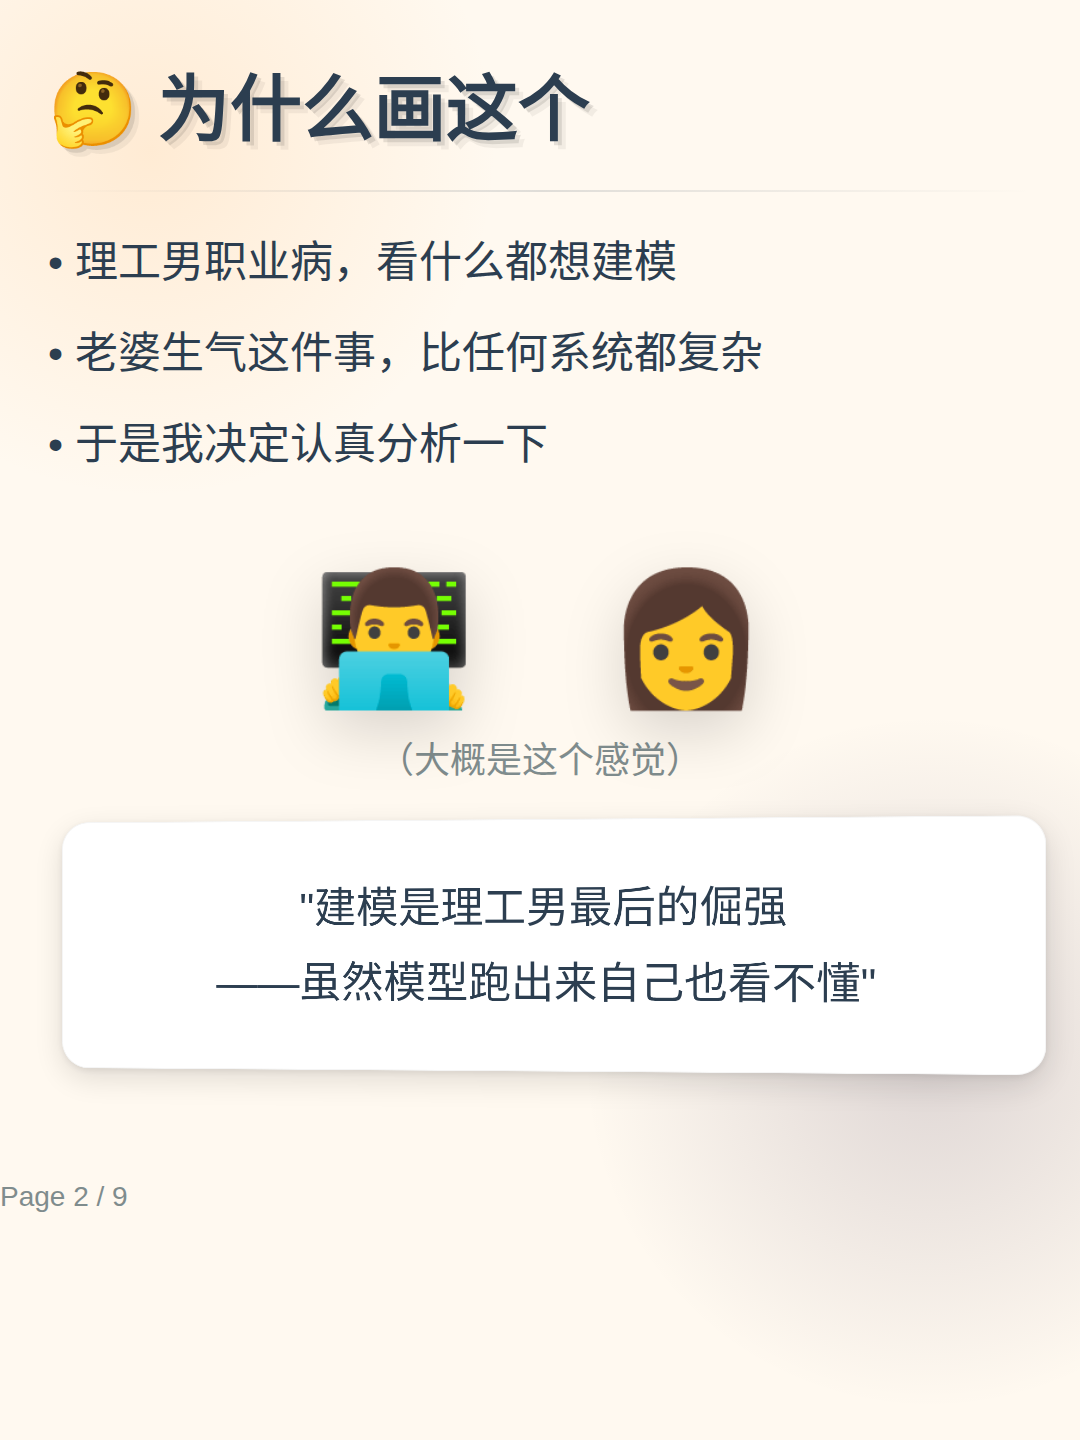
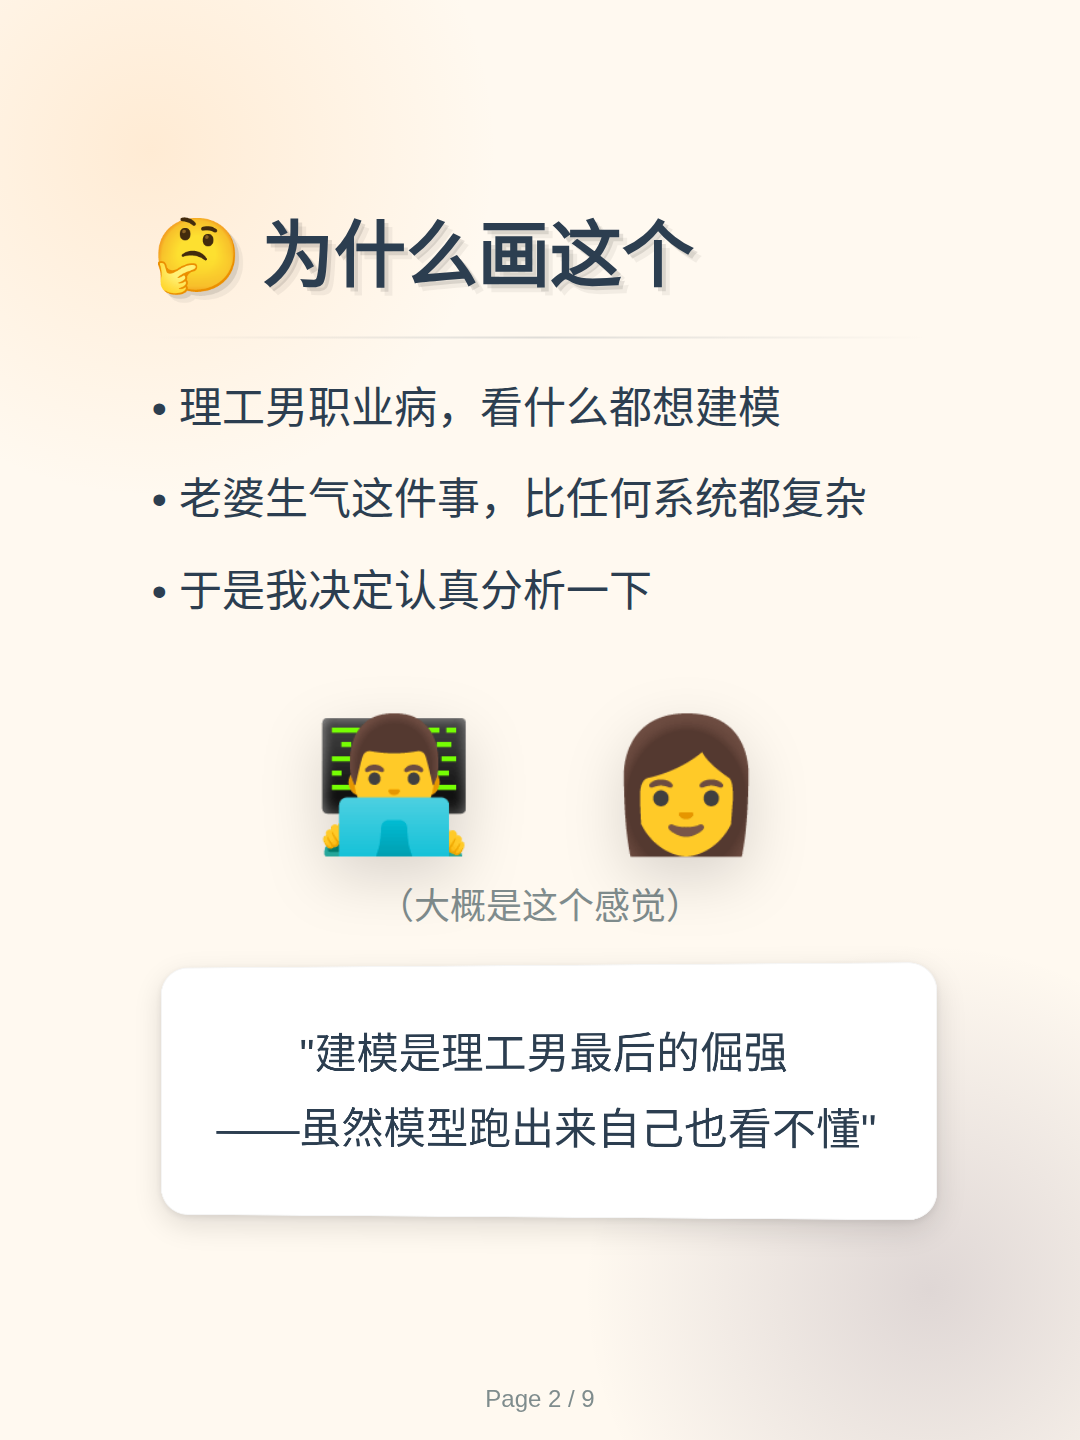
fix: Page标记居中+内容垂直均布+状态图放大

diff --git a/wife-anger-cycle-3d/slide-03-3d.html b/wife-anger-cycle-3d/slide-03-3d.html
@@ -1,6 +1,6 @@
 <!DOCTYPE html><html><head><meta charset="utf-8"><style>
 *{margin:0;padding:0;box-sizing:border-box}
-body{width:1080px;background:#FFF9F0;font-family:'PingFang SC','Microsoft YaHei',sans-serif;color:#2C3E50;overflow:hidden;position:relative}
+body{display:flex;flex-direction:column;align-items:center;min-height:1440px;justify-content:center;height:1440px;justify-content:center;width:1080px;background:#FFF9F0;font-family:'PingFang SC','Microsoft YaHei',sans-serif;color:#2C3E50;overflow:hidden;position:relative}
 /* Strong ambient light */
 body::before{content:'';position:absolute;top:0;left:0;right:0;bottom:0;background:radial-gradient(ellipse at 50% 30%,rgba(255,255,255,.4) 0%,transparent 60%);pointer-events:none;z-index:0}
 /* Perspective grid at bottom */
@@ -18,7 +18,7 @@ h2{font-size:60px;font-weight:900;text-shadow:4px 4px 0 rgba(0,0,0,.1),8px 8px 0
 .txt{font-size:32px;line-height:1.55}
 .sm{font-size:26px;color:#7F8C8D}
 svg text{font-family:'PingFang SC','Microsoft YaHei',sans-serif}
-.foot{position:static;padding-top:28px;font-size:24px;color:#7F8C8D}
+.foot{position:fixed;bottom:28px;left:0;right:0;text-align:center;font-size:24px;color:#7F8C8D;z-index:10}
 
 /* STRONG 3D perspective for diagram */
 .diagram-stage{perspective:800px;text-align:center;margin:10px 0}
@@ -33,7 +33,7 @@ svg text{font-family:'PingFang SC','Microsoft YaHei',sans-serif}
   <div style="height:2px;background:linear-gradient(90deg,transparent,#2C3E50,transparent);opacity:.15;margin:8px 0 10px"></div>
   <div class="diagram-stage">
     <div class="diagram-plane">
-      <svg viewBox="0 0 952 720" width="900" height="460" xmlns="http://www.w3.org/2000/svg">
+      <svg viewBox="0 0 952 720" width="980" height="560" xmlns="http://www.w3.org/2000/svg">
         <defs>
           <marker id="ag" viewBox="0 0 10 10" refX="9" refY="5" markerWidth="6" markerHeight="6" orient="auto"><path d="M0 0L10 5L0 10z" fill="#4CAF50" opacity=".7"/></marker>
           <marker id="ay" viewBox="0 0 10 10" refX="9" refY="5" markerWidth="6" markerHeight="6" orient="auto"><path d="M0 0L10 5L0 10z" fill="#E6A800" opacity=".7"/></marker>
@@ -57,86 +57,86 @@ svg text{font-family:'PingFang SC','Microsoft YaHei',sans-serif}
 
         <!-- 平静态 (top) -->
         <g filter="url(#recoveryGlow)">
-          <rect x="380" y="20" width="200" height="70" rx="14" fill="#4CAF50" fill-opacity=".12" stroke="#4CAF50" stroke-width="2.5" stroke-dasharray="6,3"/>
+          <rect x="360" y="10" width="230" height="85" rx="16" fill="#4CAF50" fill-opacity=".12" stroke="#4CAF50" stroke-width="2.5" stroke-dasharray="6,3"/>
         </g>
-        <text x="480" y="50" text-anchor="middle" font-size="37" font-weight="bold" fill="#4CAF50">😌 平静态</text>
-        <text x="480" y="74" text-anchor="middle" font-size="23" fill="#7F8C8D">Normal</text>
+        <text x="480" y="50" text-anchor="middle" font-size="42" font-weight="bold" fill="#4CAF50">😌 平静态</text>
+        <text x="480" y="74" text-anchor="middle" font-size="26" fill="#7F8C8D">Normal</text>
 
         <!-- 酝酿态 -->
         <g filter="url(#nodeShadow)">
-          <rect x="40" y="240" width="210" height="70" rx="14" fill="#FFC107" fill-opacity=".12" stroke="#FFC107" stroke-width="2.5" stroke-dasharray="6,3"/>
+          <rect x="30" y="225" width="230" height="85" rx="16" fill="#FFC107" fill-opacity=".12" stroke="#FFC107" stroke-width="2.5" stroke-dasharray="6,3"/>
         </g>
-        <text x="145" y="270" text-anchor="middle" font-size="37" font-weight="bold" fill="#E6A800">🤔 酝酿态</text>
-        <text x="145" y="294" text-anchor="middle" font-size="23" fill="#7F8C8D">Warning</text>
+        <text x="145" y="270" text-anchor="middle" font-size="42" font-weight="bold" fill="#E6A800">🤔 酝酿态</text>
+        <text x="145" y="294" text-anchor="middle" font-size="26" fill="#7F8C8D">Warning</text>
 
         <!-- 爆发态 - STRONG red glow -->
         <g filter="url(#criticalGlow)">
-          <rect x="370" y="230" width="230" height="90" rx="16" fill="#F44336" fill-opacity=".15" stroke="#F44336" stroke-width="3"/>
+          <rect x="355" y="215" width="250" height="100" rx="18" fill="#F44336" fill-opacity=".15" stroke="#F44336" stroke-width="3"/>
         </g>
-        <text x="485" y="272" text-anchor="middle" font-size="39" font-weight="bold" fill="#F44336">💢 爆发态</text>
-        <text x="485" y="298" text-anchor="middle" font-size="23" fill="#7F8C8D">Critical</text>
+        <text x="485" y="272" text-anchor="middle" font-size="44" font-weight="bold" fill="#F44336">💢 爆发态</text>
+        <text x="485" y="298" text-anchor="middle" font-size="26" fill="#7F8C8D">Critical</text>
 
         <!-- 冷冻态 -->
         <g filter="url(#nodeShadow)">
-          <rect x="710" y="240" width="200" height="70" rx="14" fill="#2196F3" fill-opacity=".12" stroke="#2196F3" stroke-width="2.5" stroke-dasharray="6,3"/>
+          <rect x="700" y="225" width="220" height="85" rx="16" fill="#2196F3" fill-opacity=".12" stroke="#2196F3" stroke-width="2.5" stroke-dasharray="6,3"/>
         </g>
-        <text x="810" y="270" text-anchor="middle" font-size="37" font-weight="bold" fill="#2196F3">🧊 冷冻态</text>
-        <text x="810" y="294" text-anchor="middle" font-size="23" fill="#7F8C8D">Frozen</text>
+        <text x="810" y="270" text-anchor="middle" font-size="42" font-weight="bold" fill="#2196F3">🧊 冷冻态</text>
+        <text x="810" y="294" text-anchor="middle" font-size="26" fill="#7F8C8D">Frozen</text>
 
         <!-- 阴天态 -->
         <g filter="url(#nodeShadow)">
-          <rect x="40" y="480" width="210" height="70" rx="14" fill="#9C27B0" fill-opacity=".12" stroke="#9C27B0" stroke-width="2.5" stroke-dasharray="6,3"/>
+          <rect x="30" y="475" width="230" height="85" rx="16" fill="#9C27B0" fill-opacity=".12" stroke="#9C27B0" stroke-width="2.5" stroke-dasharray="6,3"/>
         </g>
-        <text x="145" y="510" text-anchor="middle" font-size="37" font-weight="bold" fill="#9C27B0">🌧 阴天态</text>
-        <text x="145" y="534" text-anchor="middle" font-size="23" fill="#7F8C8D">Unstable</text>
+        <text x="145" y="510" text-anchor="middle" font-size="42" font-weight="bold" fill="#9C27B0">🌧 阴天态</text>
+        <text x="145" y="534" text-anchor="middle" font-size="26" fill="#7F8C8D">Unstable</text>
 
         <!-- 平静态恢复 -->
         <g filter="url(#recoveryGlow)">
-          <rect x="710" y="480" width="200" height="70" rx="14" fill="#4CAF50" fill-opacity=".12" stroke="#4CAF50" stroke-width="2.5" stroke-dasharray="6,3"/>
+          <rect x="695" y="475" width="220" height="85" rx="16" fill="#4CAF50" fill-opacity=".12" stroke="#4CAF50" stroke-width="2.5" stroke-dasharray="6,3"/>
         </g>
-        <text x="810" y="510" text-anchor="middle" font-size="37" font-weight="bold" fill="#4CAF50">😌 平静态</text>
-        <text x="810" y="534" text-anchor="middle" font-size="23" fill="#7F8C8D">Normal（恢复）</text>
+        <text x="810" y="510" text-anchor="middle" font-size="42" font-weight="bold" fill="#4CAF50">😌 平静态</text>
+        <text x="810" y="534" text-anchor="middle" font-size="26" fill="#7F8C8D">Normal（恢复）</text>
 
         <!-- Arrows -->
         <line x1="415" y1="90" x2="230" y2="240" stroke="#FFC107" stroke-width="2" marker-end="url(#ay)" opacity=".6"/>
         <rect x="265" y="142" width="90" height="22" rx="4" fill="white" fill-opacity=".92"/>
-        <text x="310" y="158" text-anchor="middle" font-size="21" font-weight="bold" fill="#E6A800">❶ 忽视预警</text>
+        <text x="310" y="158" text-anchor="middle" font-size="24" font-weight="bold" fill="#E6A800">❶ 忽视预警</text>
 
         <line x1="545" y1="90" x2="220" y2="245" stroke="#FFC107" stroke-width="2" marker-end="url(#ay)" opacity=".4" stroke-dasharray="5,3"/>
         <rect x="345" y="132" width="90" height="22" rx="4" fill="white" fill-opacity=".92"/>
-        <text x="390" y="148" text-anchor="middle" font-size="21" font-weight="bold" fill="#E6A800">❷ "你随意吧"</text>
+        <text x="390" y="148" text-anchor="middle" font-size="24" font-weight="bold" fill="#E6A800">❷ "你随意吧"</text>
 
         <line x1="250" y1="275" x2="370" y2="275" stroke="#F44336" stroke-width="2" marker-end="url(#ar)" opacity=".6"/>
         <rect x="275" y="253" width="90" height="22" rx="4" fill="white" fill-opacity=".92"/>
-        <text x="320" y="269" text-anchor="middle" font-size="21" font-weight="bold" fill="#F44336">❸ 继续忽视</text>
+        <text x="320" y="269" text-anchor="middle" font-size="24" font-weight="bold" fill="#F44336">❸ 继续忽视</text>
 
         <line x1="600" y1="275" x2="710" y2="275" stroke="#2196F3" stroke-width="2" marker-end="url(#ab)" opacity=".6"/>
         <rect x="610" y="253" width="90" height="22" rx="4" fill="white" fill-opacity=".92"/>
-        <text x="655" y="269" text-anchor="middle" font-size="21" font-weight="bold" fill="#2196F3">❹ 无人劝阻</text>
+        <text x="655" y="269" text-anchor="middle" font-size="24" font-weight="bold" fill="#2196F3">❹ 无人劝阻</text>
 
         <line x1="415" y1="320" x2="210" y2="480" stroke="#9C27B0" stroke-width="2" marker-end="url(#ap)" opacity=".6"/>
         <rect x="270" y="368" width="90" height="22" rx="4" fill="white" fill-opacity=".92"/>
-        <text x="315" y="384" text-anchor="middle" font-size="21" font-weight="bold" fill="#9C27B0">❺ 道歉失败</text>
+        <text x="315" y="384" text-anchor="middle" font-size="24" font-weight="bold" fill="#9C27B0">❺ 道歉失败</text>
 
         <line x1="115" y1="480" x2="430" y2="320" stroke="#F44336" stroke-width="2" marker-end="url(#ar)" opacity=".6"/>
         <rect x="180" y="380" width="90" height="22" rx="4" fill="white" fill-opacity=".92"/>
-        <text x="225" y="396" text-anchor="middle" font-size="21" font-weight="bold" fill="#F44336">❻ 二次爆发</text>
+        <text x="225" y="396" text-anchor="middle" font-size="24" font-weight="bold" fill="#F44336">❻ 二次爆发</text>
 
         <line x1="810" y1="310" x2="810" y2="480" stroke="#4CAF50" stroke-width="2" marker-end="url(#ag)" opacity=".6"/>
         <rect x="818" y="378" width="90" height="22" rx="4" fill="white" fill-opacity=".92"/>
-        <text x="863" y="394" text-anchor="middle" font-size="21" font-weight="bold" fill="#4CAF50">❼ 自行恢复</text>
+        <text x="863" y="394" text-anchor="middle" font-size="24" font-weight="bold" fill="#4CAF50">❼ 自行恢复</text>
 
         <line x1="250" y1="515" x2="710" y2="515" stroke="#4CAF50" stroke-width="3" marker-end="url(#ag)" opacity=".7" stroke-dasharray="8,4"/>
         <rect x="420" y="520" width="110" height="22" rx="4" fill="white" fill-opacity=".92"/>
-        <text x="475" y="536" text-anchor="middle" font-size="21" font-weight="bold" fill="#4CAF50">❽ 认真哄好了 ✓</text>
+        <text x="475" y="536" text-anchor="middle" font-size="24" font-weight="bold" fill="#4CAF50">❽ 认真哄好了 ✓</text>
 
         <!-- Legend with depth -->
         <g>
           <rect x="660" y="590" width="280" height="120" rx="10" fill="white" fill-opacity=".92" stroke="#e0e0e0" stroke-width="1" filter="url(#nodeShadow)"/>
-          <text x="675" y="612" font-size="25" font-weight="bold" fill="#2C3E50">路径说明</text>
-          <text x="675" y="634" font-size="21" fill="#666">❶❷ 进入酝酿：高危信号出现</text>
-          <text x="675" y="654" font-size="21" fill="#666">❸❹❻ 升级：忽视→爆发→冷冻</text>
-          <text x="675" y="674" font-size="21" fill="#666">❺ 降级失败：假恢复后复发</text>
+          <text x="675" y="612" font-size="28" font-weight="bold" fill="#2C3E50">路径说明</text>
+          <text x="675" y="634" font-size="24" fill="#666">❶❷ 进入酝酿：高危信号出现</text>
+          <text x="675" y="654" font-size="24" fill="#666">❸❹❻ 升级：忽视→爆发→冷冻</text>
+          <text x="675" y="674" font-size="24" fill="#666">❺ 降级失败：假恢复后复发</text>
           <text x="675" y="694" font-size="21" fill="#4CAF50" font-weight="bold">❽ 真正恢复：认真听她说话</text>
         </g>
       </svg>

diff --git a/wife-anger-cycle-3d/slide-02-3d.html b/wife-anger-cycle-3d/slide-02-3d.html
@@ -1,6 +1,6 @@
 <!DOCTYPE html><html><head><meta charset="utf-8"><style>
 *{margin:0;padding:0;box-sizing:border-box}
-body{width:1080px;background:#FFF9F0;font-family:'PingFang SC','Microsoft YaHei',sans-serif;color:#2C3E50;overflow:hidden;position:relative}
+body{display:flex;flex-direction:column;align-items:center;min-height:1440px;justify-content:center;height:1440px;justify-content:center;width:1080px;background:#FFF9F0;font-family:'PingFang SC','Microsoft YaHei',sans-serif;color:#2C3E50;overflow:hidden;position:relative}
 /* Warm ambient light top-left */
 body::before{content:'';position:absolute;top:-200px;left:-200px;width:700px;height:700px;background:radial-gradient(ellipse,rgba(255,180,100,.2) 0%,transparent 70%);pointer-events:none}
 /* Subtle dark bottom-right */
@@ -14,7 +14,7 @@ h2{font-size:72px;font-weight:900;text-shadow:4px 4px 0 rgba(0,0,0,.1),8px 8px 0
   box-shadow:0 10px 30px rgba(0,0,0,.12),0 2px 8px rgba(0,0,0,.08),inset 0 1px 0 rgba(255,255,255,.8);
   border:1px solid rgba(0,0,0,.04);transform:perspective(600px) rotateY(-2deg);transition:transform .3s ease}
 .card::before{content:'';position:absolute;top:0;left:24px;right:24px;height:2px;background:linear-gradient(90deg,transparent,rgba(255,255,255,.9),transparent)}
-.foot{position:static;padding-top:32px;font-size:28px;color:#7F8C8D}
+.foot{position:fixed;bottom:28px;left:0;right:0;text-align:center;font-size:24px;color:#7F8C8D;z-index:10}
 .divider{height:2px;background:linear-gradient(90deg,transparent,#2C3E50,transparent);opacity:.15;margin:36px 0 32px}
 .emoji-row{font-size:130px;text-align:center;margin:50px 0;filter:drop-shadow(0 20px 30px rgba(0,0,0,.15))}
 </style></head><body>

diff --git a/wife-anger-cycle-3d/slide-06-3d.html b/wife-anger-cycle-3d/slide-06-3d.html
@@ -1,6 +1,6 @@
 <!DOCTYPE html><html><head><meta charset="utf-8"><style>
 *{margin:0;padding:0;box-sizing:border-box}
-body{width:1080px;background:#FFF9F0;font-family:'PingFang SC','Microsoft YaHei',sans-serif;color:#2C3E50;overflow:hidden;position:relative}
+body{display:flex;flex-direction:column;align-items:center;min-height:1440px;height:1440px;justify-content:space-between;width:1080px;background:#FFF9F0;font-family:'PingFang SC','Microsoft YaHei',sans-serif;color:#2C3E50;overflow:hidden;position:relative};min-height:1440px;height:1440px;justify-content:space-between;
 /* Red danger glow top-left */
 body::before{content:'';position:absolute;top:-150px;left:-150px;width:700px;height:700px;background:radial-gradient(ellipse,rgba(244,67,54,.18) 0%,transparent 70%);pointer-events:none}
 /* Blue cold glow bottom-right */
@@ -17,7 +17,7 @@ h2{font-size:70px;font-weight:900;text-shadow:4px 4px 0 rgba(0,0,0,.1),8px 8px 0
 .highlight{color:#F44336;font-weight:bold}
 .green{color:#4CAF50;font-weight:bold}
 svg text{font-family:'PingFang SC','Microsoft YaHei',sans-serif}
-.foot{position:static;padding-top:20px;font-size:24px;color:#7F8C8D}
+.foot{position:fixed;bottom:28px;left:0;right:0;text-align:center;font-size:24px;color:#7F8C8D;z-index:10}
 
 /* SVG diagram with depth */
 .svg-stage{perspective:800px;margin-top:14px}

diff --git a/wife-anger-cycle-3d/slide-08-3d.html b/wife-anger-cycle-3d/slide-08-3d.html
@@ -1,6 +1,6 @@
 <!DOCTYPE html><html><head><meta charset="utf-8"><style>
 *{margin:0;padding:0;box-sizing:border-box}
-body{width:1080px;background:#FFF9F0;font-family:'PingFang SC','Microsoft YaHei',sans-serif;color:#2C3E50;overflow:hidden;position:relative}
+body{display:flex;flex-direction:column;align-items:center;min-height:1440px;height:1440px;justify-content:space-between;width:1080px;background:#FFF9F0;font-family:'PingFang SC','Microsoft YaHei',sans-serif;color:#2C3E50;overflow:hidden;position:relative};min-height:1440px;height:1440px;justify-content:space-between;
 /* Green recovery glow top-left */
 body::before{content:'';position:absolute;top:-150px;left:-150px;width:700px;height:700px;background:radial-gradient(ellipse,rgba(76,175,80,.18) 0%,transparent 70%);pointer-events:none}
 /* Warm light bottom-right */
@@ -17,7 +17,7 @@ h2{font-size:70px;font-weight:900;text-shadow:4px 4px 0 rgba(0,0,0,.1),8px 8px 0
 .highlight{color:#F44336;font-weight:bold}
 .green{color:#4CAF50;font-weight:bold}
 svg text{font-family:'PingFang SC','Microsoft YaHei',sans-serif}
-.foot{position:static;padding-top:20px;font-size:24px;color:#7F8C8D}
+.foot{position:fixed;bottom:28px;left:0;right:0;text-align:center;font-size:24px;color:#7F8C8D;z-index:10}
 
 /* SVG diagram with depth */
 .svg-stage{perspective:800px;margin-top:14px}

diff --git a/wife-anger-cycle-3d/slide-07-3d.html b/wife-anger-cycle-3d/slide-07-3d.html
@@ -1,6 +1,6 @@
 <!DOCTYPE html><html><head><meta charset="utf-8"><style>
 *{margin:0;padding:0;box-sizing:border-box}
-body{width:1080px;background:#FFF9F0;font-family:'PingFang SC','Microsoft YaHei',sans-serif;color:#2C3E50;overflow:hidden;position:relative}
+body{display:flex;flex-direction:column;align-items:center;min-height:1440px;height:1440px;justify-content:space-between;width:1080px;background:#FFF9F0;font-family:'PingFang SC','Microsoft YaHei',sans-serif;color:#2C3E50;overflow:hidden;position:relative};min-height:1440px;height:1440px;justify-content:space-between;
 /* Purple danger glow top-left */
 body::before{content:'';position:absolute;top:-150px;left:-150px;width:700px;height:700px;background:radial-gradient(ellipse,rgba(156,39,176,.18) 0%,transparent 70%);pointer-events:none}
 /* Red glow bottom-right */
@@ -17,7 +17,7 @@ h2{font-size:66px;font-weight:900;text-shadow:4px 4px 0 rgba(0,0,0,.1),8px 8px 0
 .highlight{color:#F44336;font-weight:bold}
 .green{color:#4CAF50;font-weight:bold}
 svg text{font-family:'PingFang SC','Microsoft YaHei',sans-serif}
-.foot{position:static;padding-top:20px;font-size:24px;color:#7F8C8D}
+.foot{position:fixed;bottom:28px;left:0;right:0;text-align:center;font-size:24px;color:#7F8C8D;z-index:10}
 
 /* SVG diagram with depth */
 .svg-stage{perspective:800px;margin-top:28px}

diff --git a/wife-anger-cycle-3d/slide-05-3d.html b/wife-anger-cycle-3d/slide-05-3d.html
@@ -1,6 +1,6 @@
 <!DOCTYPE html><html><head><meta charset="utf-8"><style>
 *{margin:0;padding:0;box-sizing:border-box}
-body{width:1080px;background:#FFF9F0;font-family:'PingFang SC','Microsoft YaHei',sans-serif;color:#2C3E50;overflow:hidden;position:relative}
+body{display:flex;flex-direction:column;align-items:center;min-height:1440px;height:1440px;justify-content:space-between;width:1080px;background:#FFF9F0;font-family:'PingFang SC','Microsoft YaHei',sans-serif;color:#2C3E50;overflow:hidden;position:relative};min-height:1440px;height:1440px;justify-content:space-between;
 /* Orange warning glow top-left */
 body::before{content:'';position:absolute;top:-150px;left:-150px;width:700px;height:700px;background:radial-gradient(ellipse,rgba(255,152,0,.18) 0%,transparent 70%);pointer-events:none}
 /* Warm light bottom-right */
@@ -17,7 +17,7 @@ h2{font-size:70px;font-weight:900;text-shadow:4px 4px 0 rgba(0,0,0,.1),8px 8px 0
 .highlight{color:#F44336;font-weight:bold}
 .green{color:#4CAF50;font-weight:bold}
 svg text{font-family:'PingFang SC','Microsoft YaHei',sans-serif}
-.foot{position:static;padding-top:20px;font-size:24px;color:#7F8C8D}
+.foot{position:fixed;bottom:28px;left:0;right:0;text-align:center;font-size:24px;color:#7F8C8D;z-index:10}
 
 /* Danger card */
 .card-danger{border-left:4px solid #F44336;

diff --git a/wife-anger-cycle-3d/slide-04-3d.html b/wife-anger-cycle-3d/slide-04-3d.html
@@ -1,6 +1,6 @@
 <!DOCTYPE html><html><head><meta charset="utf-8"><style>
 *{margin:0;padding:0;box-sizing:border-box}
-body{width:1080px;background:#FFF9F0;font-family:'PingFang SC','Microsoft YaHei',sans-serif;color:#2C3E50;overflow:hidden;position:relative}
+body{display:flex;flex-direction:column;align-items:center;min-height:1440px;height:1440px;justify-content:space-between;width:1080px;background:#FFF9F0;font-family:'PingFang SC','Microsoft YaHei',sans-serif;color:#2C3E50;overflow:hidden;position:relative};min-height:1440px;height:1440px;justify-content:space-between;
 /* Strong radial glow from top-left */
 body::before{content:'';position:absolute;top:-150px;left:-150px;width:700px;height:700px;background:radial-gradient(ellipse,rgba(244,67,54,.18) 0%,transparent 70%);pointer-events:none}
 /* Strong warm light from bottom-right */
@@ -25,7 +25,7 @@ h2{font-size:70px;font-weight:900;text-shadow:4px 4px 0 rgba(0,0,0,.1),8px 8px 0
 .sm{font-size:36px;color:#7F8C8D}
 .highlight{color:#F44336;font-weight:bold}
 
-.foot{position:static;padding-top:20px;font-size:24px;color:#7F8C8D}
+.foot{position:fixed;bottom:28px;left:0;right:0;text-align:center;font-size:24px;color:#7F8C8D;z-index:10}
 
 /* Danger card - STRONG red glow from left */
 .card-danger{border-left:4px solid #F44336;

diff --git a/wife-anger-cycle-3d/slide-09-3d.html b/wife-anger-cycle-3d/slide-09-3d.html
@@ -14,5 +14,5 @@ body::after{content:'';position:absolute;bottom:-200px;right:-200px;width:600px;
     <span style="display:block;font-size:42px;font-weight:300;margin-top:24px;text-shadow:2px 2px 0 rgba(0,0,0,.15),4px 4px 0 rgba(0,0,0,.08)">从认真倾听身边人开始</span>
   </p>
   <img src="volvo-logo.png" style="position:fixed;bottom:40px;right:60px;width:120px;height:auto;opacity:.4" />
-  <p style="position:fixed;bottom:40px;left:80px;font-size:36px;opacity:.25">Page 9 / 9</p>
+  <p style="position:fixed;bottom:28px;left:0;right:0;text-align:center;font-size:28px;opacity:.4;z-index:10">Page 9 / 9</p>
 </body></html>

diff --git a/wife-anger-cycle-3d/slide-01-3d.html b/wife-anger-cycle-3d/slide-01-3d.html
@@ -27,7 +27,7 @@ letter-spacing:2px}
 
 .badge{font-size:26px;color:#7F8C8D;background:rgba(255,255,255,.8);padding:12px 32px;border-radius:40px;box-shadow:0 10px 30px rgba(0,0,0,.12),0 2px 8px rgba(0,0,0,.08),inset 0 1px 0 rgba(255,255,255,.8);border:1px solid rgba(0,0,0,.06)}
 
-.foot{position:fixed;bottom:28px;font-size:32px;color:#7F8C8D;opacity:.6}
+.foot{position:fixed;bottom:28px;left:0;right:0;text-align:center;font-size:32px;color:#7F8C8D;opacity:.6;z-index:10}
 </style></head><body>
 <div class="wrap">
   <div class="emoji">💢</div>
